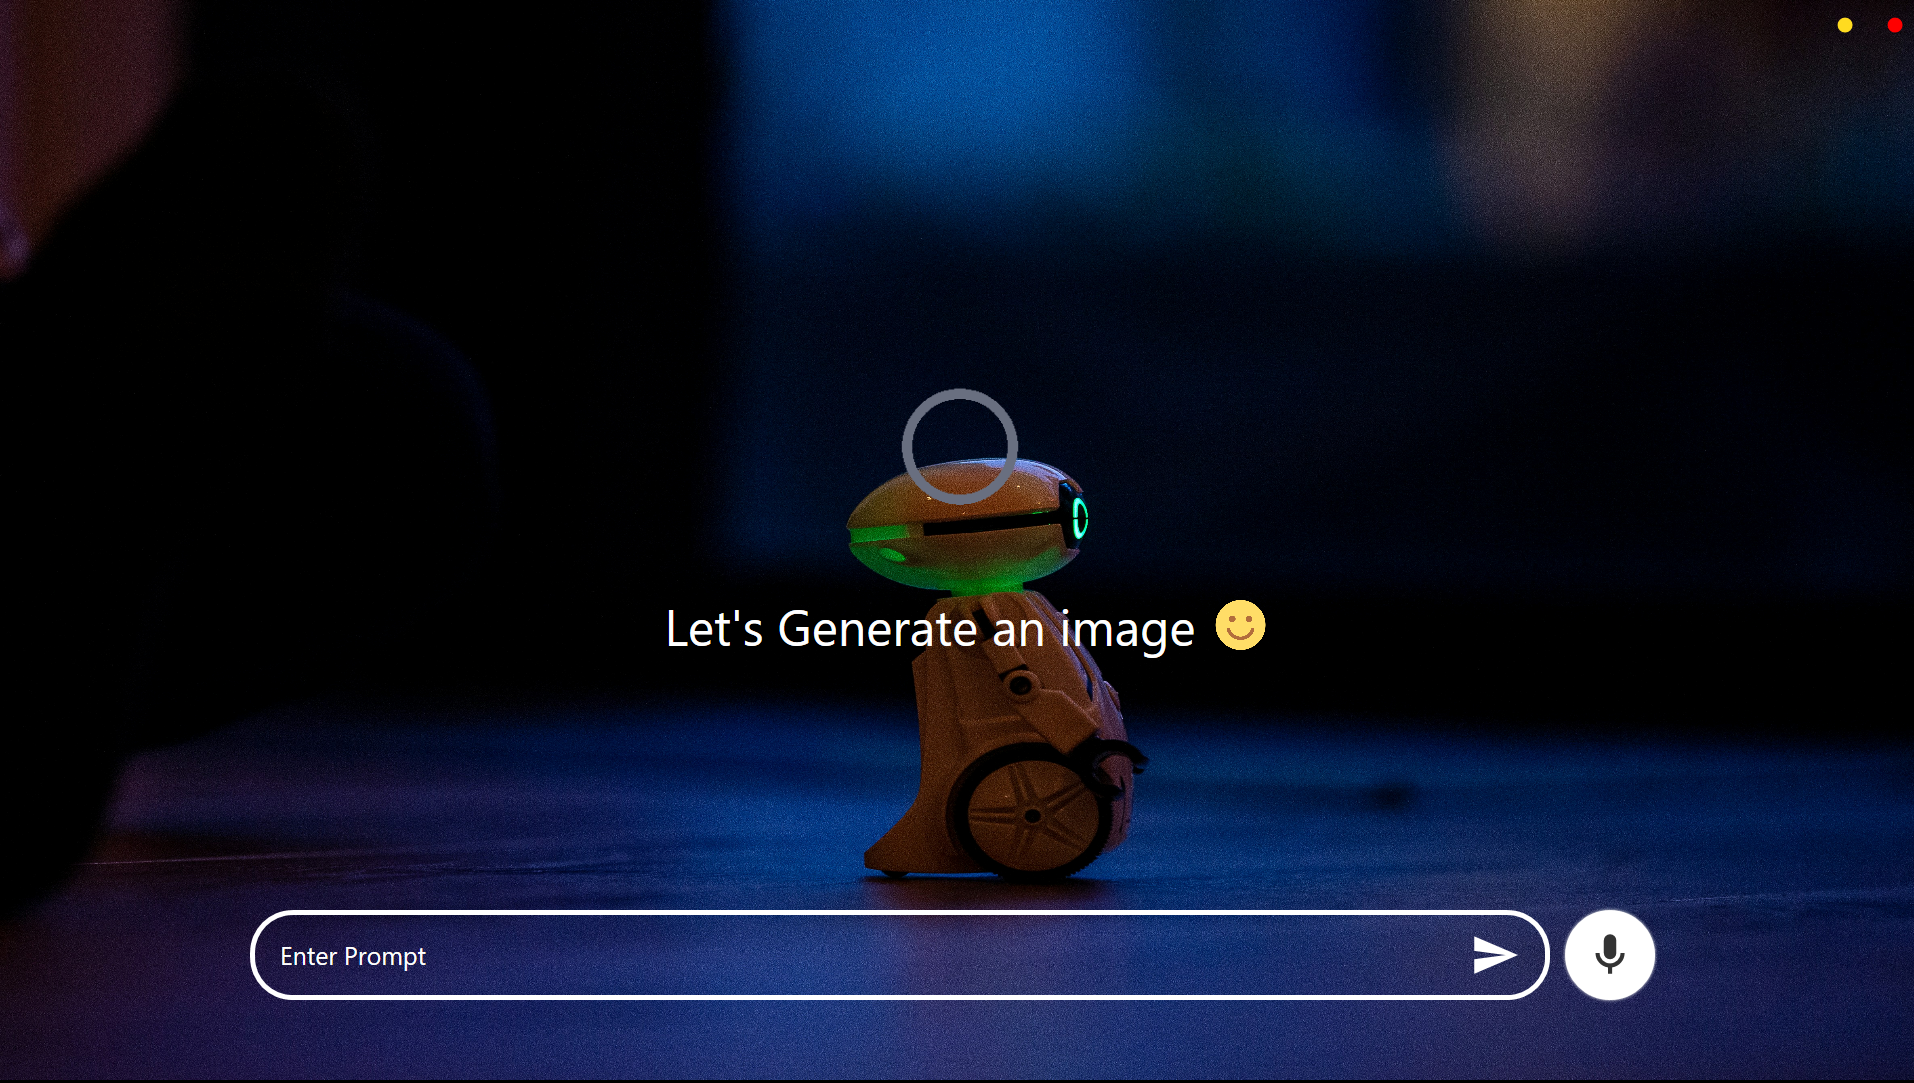
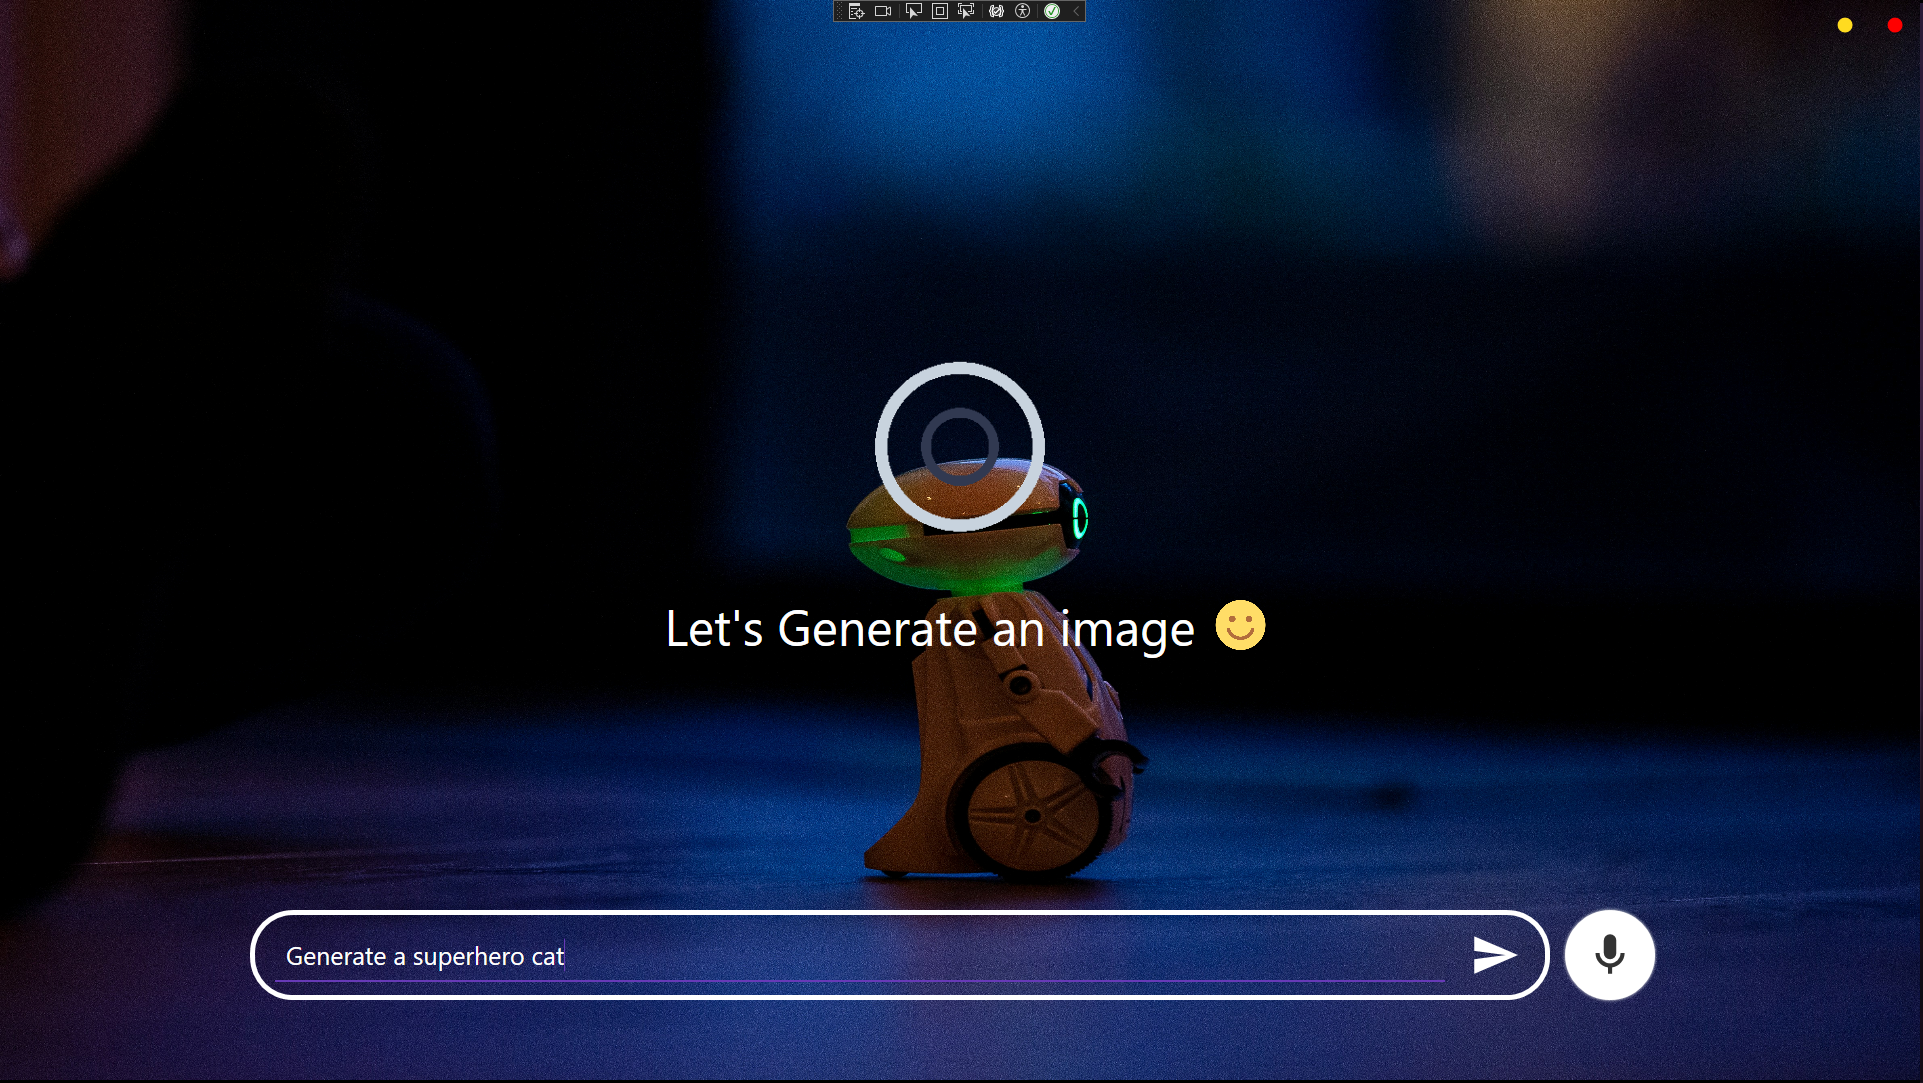
image generation service bug fixed, readme edited

diff --git a/Views/Templates/Dialogs/ImageDialog.xaml b/Views/Templates/Dialogs/ImageDialog.xaml
@@ -42,7 +42,7 @@
                 Grid.Column="1"
                 Visibility="{Binding ImageGenerated, UpdateSourceTrigger=PropertyChanged, Converter={StaticResource BoolToVisibility}}">
                 <Border.Background>
-                    <ImageBrush ImageSource="{Binding GeneratedImageUri, UpdateSourceTrigger=PropertyChanged}" Stretch="UniformToFill" />
+                    <ImageBrush ImageSource="{Binding GeneratedImageSource, UpdateSourceTrigger=PropertyChanged}" Stretch="UniformToFill" />
                 </Border.Background>
             </Border>
 

diff --git a/ViewModels/ImageDialogViewModel.cs b/ViewModels/ImageDialogViewModel.cs
@@ -2,6 +2,7 @@
 using GenAI_ImageGenerator.Commands.Utilities;
 using GenAI_ImageGenerator.Factory.Interfaces;
 using GenAI_ImageGenerator.Services;
+using GenAI_ImageGenerator.ViewModels.Interfaces;
 using GenAI_ImageGenerator.Views.Templates.Dialogs;
 using MaterialDesignColors;
 using Microsoft.Extensions.DependencyInjection;
@@ -17,11 +18,14 @@ using System.Text;
 using System.Threading.Tasks;
 using System.Windows;
 using System.Windows.Input;
+using System.Windows.Media;
+using System.Windows.Media.Imaging;
 
 namespace GenAI_ImageGenerator.ViewModels
 {
     public class ImageDialogViewModel : ViewModelBase, IImageDialogViewModel
     {
+        private readonly IMainViewModel _mainViewModel;
         private IAbstractFactory<ImageGenerationService> _factory;
 
         private bool _requestWasUnsuccessful = false;
@@ -53,20 +57,32 @@ namespace GenAI_ImageGenerator.ViewModels
             }
         }
 
-        private string _generatedImageUri = string.Empty;
+        private BinaryData _generatedImage;
 
-        public string GeneratedImageUri
+        public BinaryData GeneratedImage
         {
-            get => _generatedImageUri;
+            get => _generatedImage;
             set
             {
-                if (_generatedImageUri != value)
+                if (_generatedImage != value)
                 {
-                    _generatedImageUri = value;
-                    OnPropertyChanged(nameof(GeneratedImageUri));
+                    _generatedImage = value;
+                    OnPropertyChanged(nameof(GeneratedImage));
                 }
             }
         }
+
+        private ImageSource _generatedImageSource;
+        public ImageSource GeneratedImageSource
+        {
+            get => _generatedImageSource;
+            set
+            {
+                _generatedImageSource = value;
+                OnPropertyChanged(nameof(GeneratedImageSource));
+            }
+        }
+
 
         private bool _imageGenerated = false;
         public bool ImageGenerated
@@ -122,29 +138,29 @@ namespace GenAI_ImageGenerator.ViewModels
 
         private void DownloadImage(object obj)
         {
-            if(GeneratedImageUri != null)
+            if(GeneratedImage != null)
             {
                 Application.Current.Dispatcher.Invoke(new Action(async () =>
                 {
                     var downloads = Path.Combine(Environment.GetFolderPath(Environment.SpecialFolder.UserProfile), "Downloads");
                     var savePath = Path.Combine(downloads, GenerateFilename());
 
-                    using (HttpClient client = new HttpClient())
+                    using (FileStream stream = File.OpenWrite(savePath))
                     {
-                        byte[] imageBytes = await client.GetByteArrayAsync(GeneratedImageUri);
-                        await System.IO.File.WriteAllBytesAsync(savePath, imageBytes);
-
+                        GeneratedImage.ToStream().CopyTo(stream);
                         MessageBox.Show("Image saved to Downloads ✅");
                     }
+
                 }));
             }
         }
 
         private string GenerateFilename() => "generated_image_" + Guid.NewGuid().ToString() + ".jpg";
 
-        public ImageDialogViewModel(IAbstractFactory<ImageGenerationService> factory)
+        public ImageDialogViewModel(IAbstractFactory<ImageGenerationService> factory, IMainViewModel mainViewModel)
         {
             _factory = factory;
+            _mainViewModel = mainViewModel;
             Task.Run(() => ProcessUserRequest());
         }
 
@@ -152,13 +168,13 @@ namespace GenAI_ImageGenerator.ViewModels
         {
             try
             {
-                await Task.Delay(3000);
-                
-                var imageUri = await _factory.Create().GenerateImageFromPrompt("");
+                var image = await _factory.Create().GenerateImageFromPrompt(_mainViewModel.UserPrompt);
 
-                if(!string.IsNullOrEmpty(imageUri))
+                if(image != null)
                 {
-                    GeneratedImageUri = imageUri;
+                    GeneratedImage = image;
+                    // display image 
+                    GeneratedImageSource = ConvertToImage(image.ToArray());
                     ImageGenerated = true;
                 }
                 else throw new Exception("Image was not generated");
@@ -176,6 +192,21 @@ namespace GenAI_ImageGenerator.ViewModels
                 ProcessingImageGenerationRequest = false;
             }
         }
+
+        private BitmapImage ConvertToImage(byte[] imageData)
+        {
+            using (var ms = new MemoryStream(imageData))
+            {
+                var image = new BitmapImage();
+                image.BeginInit();
+                image.CacheOption = BitmapCacheOption.OnLoad;
+                image.StreamSource = ms;
+                image.EndInit();
+                image.Freeze(); // Important for UI thread safety
+                return image;
+            }
+        }
+
 
         private void CloseWindow(object obj)
         {

diff --git a/Services/ImageGenerationService.cs b/Services/ImageGenerationService.cs
@@ -1,4 +1,9 @@
-using OpenAI.Images;
+using GenAI_ImageGenerator.Commands.Utilities;
+using GenAI_ImageGenerator.Factory.Interfaces;
+using GenAI_ImageGenerator.Services.Contracts;
+using GenAI_ImageGenerator.ViewModels;
+using Microsoft.Extensions.DependencyInjection;
+using OpenAI.Images;
 using System;
 using System.Collections.Generic;
 using System.Linq;
@@ -8,30 +13,29 @@ using System.Windows;
 
 namespace GenAI_ImageGenerator.Services
 {
-    public class ImageGenerationService 
+    public class ImageGenerationService : IImageGenerationService
     {
+        private string API_KEY = "";
         private static ImageClient _client;
 
         public ImageGenerationService() { }
 
-        public async Task<string> GenerateImageFromPrompt(string prompt)
+        public async Task<BinaryData?> GenerateImageFromPrompt(string prompt)
         {
-            DotNetEnv.Env.Load();
-            var apiKey = Environment.GetEnvironmentVariable("API_KEY", EnvironmentVariableTarget.Process);
-            
-            //_client = new ImageClient("dall-e-3", "dsdsds");
+            _client = new ImageClient("dall-e-3", API_KEY);
 
-            //ImageGenerationOptions options = new ImageGenerationOptions
-            //{
-            //    Quality = GeneratedImageQuality.Standard,
-            //    Size = GeneratedImageSize.W1792xH1024,
-            //    Style = GeneratedImageStyle.Vivid,
-            //    ResponseFormat = GeneratedImageFormat.Bytes
-            //};
+            ImageGenerationOptions options = new ImageGenerationOptions
+            {
+                Quality = GeneratedImageQuality.Standard,
+                Size = GeneratedImageSize.W1792xH1024,
+                Style = GeneratedImageStyle.Vivid,
+                ResponseFormat = GeneratedImageFormat.Bytes
+            };
 
-            //GeneratedImage image = await _client.GenerateImageAsync("", options);
+            GeneratedImage response = await _client.GenerateImageAsync(prompt, options);
+            var image = response.ImageBytes;
 
-            return "https://manlybattery.com/wp-content/uploads/2022/03/Introduction-of-flashlight.jpg";
+            return image;
         }
     }
 }

diff --git a/ViewModels/MainViewModel.cs b/ViewModels/MainViewModel.cs
@@ -2,6 +2,7 @@
 using GenAI_ImageGenerator.Commands.Utilities;
 using GenAI_ImageGenerator.Factory.Interfaces;
 using GenAI_ImageGenerator.Services;
+using GenAI_ImageGenerator.ViewModels.Interfaces;
 using GenAI_ImageGenerator.Views.Templates.Dialogs;
 using Microsoft.Extensions.DependencyInjection;
 using System;
@@ -23,7 +24,7 @@ namespace GenAI_ImageGenerator.ViewModels
             get => _userPrompt;
             set
             {
-                if(_userPrompt != value)
+                if (_userPrompt != value)
                 {
                     _userPrompt = value;
                     OnPropertyChanged(nameof(UserPrompt));
@@ -143,7 +144,7 @@ namespace GenAI_ImageGenerator.ViewModels
         private void Recognizer_SpeechRecognized(object? sender, SpeechRecognizedEventArgs e)
         {
             Listening = false;
-            UserPrompt = e.Result.Text; 
+            UserPrompt = e.Result.Text;
         }
 
         private void CloseWindowOnEscapeKeyPress(KeyEventArgs e) => GetCurrentWindow().Close();

diff --git a/App.xaml.cs b/App.xaml.cs
@@ -1,6 +1,7 @@
 using GenAI_ImageGenerator.Extensions;
 using GenAI_ImageGenerator.Services;
 using GenAI_ImageGenerator.ViewModels;
+using GenAI_ImageGenerator.ViewModels.Interfaces;
 using GenAI_ImageGenerator.Views.Templates.Dialogs;
 using Microsoft.Extensions.DependencyInjection;
 using Microsoft.Extensions.Hosting;
@@ -22,14 +23,9 @@ namespace GenAI_ImageGenerator
             {
                 services.AddSingleton<MainWindow>();
 
-                // view models
-                services.RegisterService<MainViewModel>();
+                services.AddSingleton<IMainViewModel, MainViewModel>();
                 services.RegisterService<ImageDialogViewModel>();
-
-                // views 
                 services.RegisterService<ImageDialog>();
-
-                // services 
                 services.RegisterService<ImageGenerationService>();
 
             }).Build();

diff --git a/MainWindow.xaml.cs b/MainWindow.xaml.cs
@@ -1,5 +1,6 @@
 using GenAI_ImageGenerator.Factory.Interfaces;
 using GenAI_ImageGenerator.ViewModels;
+using GenAI_ImageGenerator.ViewModels.Interfaces;
 using System.Windows;
 
 namespace GenAI_ImageGenerator
@@ -9,10 +10,10 @@ namespace GenAI_ImageGenerator
     /// </summary>
     public partial class MainWindow : Window
     {
-        public MainWindow(IAbstractFactory<MainViewModel> factory)
+        public MainWindow(IMainViewModel mainViewModel)
         {
             InitializeComponent();
-            DataContext = factory.Create();
+            DataContext = mainViewModel;
         }
     }
 }

diff --git a/ViewModels/Interfaces/IImageDialogViewModel.cs b/ViewModels/Interfaces/IImageDialogViewModel.cs
@@ -1,4 +1,5 @@
 using System.Windows.Input;
+using System.Windows.Media;
 
 namespace GenAI_ImageGenerator.ViewModels
 {
@@ -6,7 +7,7 @@ namespace GenAI_ImageGenerator.ViewModels
     {
         ICommand CloseWindowCommand { get; }
         ICommand DownloadCommand { get; }
-        string GeneratedImageUri { get; set; }
+        ImageSource GeneratedImageSource { get; set; }
         bool ImageGenerated { get; set; }
         bool ProcessingImageGenerationRequest { get; set; }
     }

diff --git a/ViewModels/Interfaces/IMainViewModel.cs b/ViewModels/Interfaces/IMainViewModel.cs
@@ -1,6 +1,6 @@
 using System.Windows.Input;
 
-namespace GenAI_ImageGenerator.ViewModels
+namespace GenAI_ImageGenerator.ViewModels.Interfaces
 {
     public interface IMainViewModel
     {
@@ -10,5 +10,6 @@ namespace GenAI_ImageGenerator.ViewModels
         ICommand MinimizeWindowCommand { get; }
         ICommand SendRequestCommand { get; }
         ICommand SpeechToTextCommand { get; }
+        string UserPrompt { get; set; }
     }
 }

diff --git a/Services/Contracts/IImageGenerationService.cs b/Services/Contracts/IImageGenerationService.cs
@@ -1,0 +1,7 @@
+namespace GenAI_ImageGenerator.Services.Contracts
+{
+    public interface IImageGenerationService
+    {
+        Task<BinaryData?> GenerateImageFromPrompt(string prompt);
+    }
+}

diff --git a/README.md b/README.md
@@ -8,16 +8,13 @@ The application generates AI Images from user prompts using OpenAI's Dall-E-2 mo
 
 ## Prerequisites / how to run
 
+** Get your OpenAI API KEY/TOKEN from [here](https://platform.openai.com/docs/overview)
 
+** private string API_KEY = "YOUR_API_KEY". Note: This should only be used in development. For production, consider using safer methods of retrieving your API.
 
-Get your OpenAI API KEY/TOKEN from [here](https://platform.openai.com/docs/overview)
+** Use Visual studio execute the solution GenAI_ImageGenerator.csproj
 
-Place the OpenAI API KEY/TOKEN in the project's .env file with "API_KEY" as it's key.
-
-Use Visual studio execute the solution GenAI_ImageGenerator.csproj
-
-Update any necessary dependencies using Visual Studio's Nuget Package Manager or Package Manager Console
-
+** Update any necessary dependencies using Visual Studio's Nuget Package Manager or Package Manager Console
 
 
 ### List all packages/dependencies 
